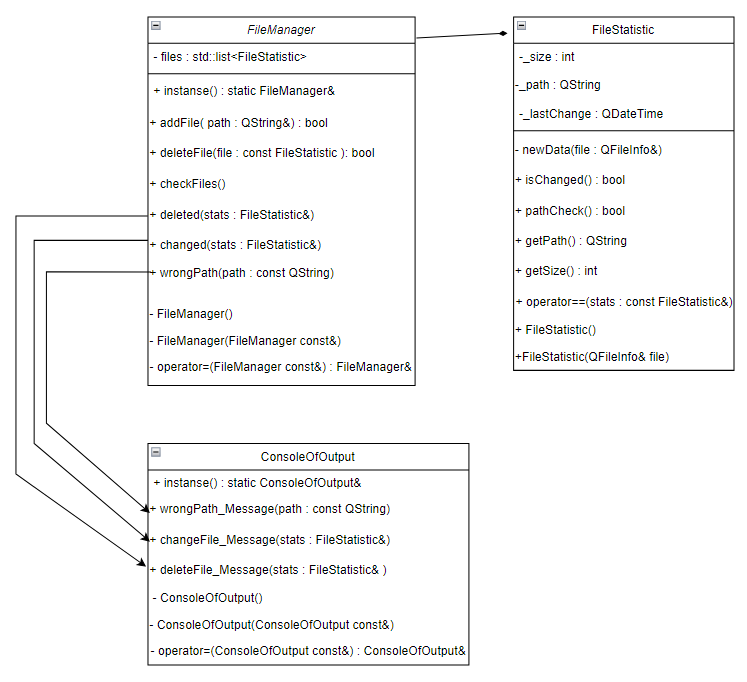
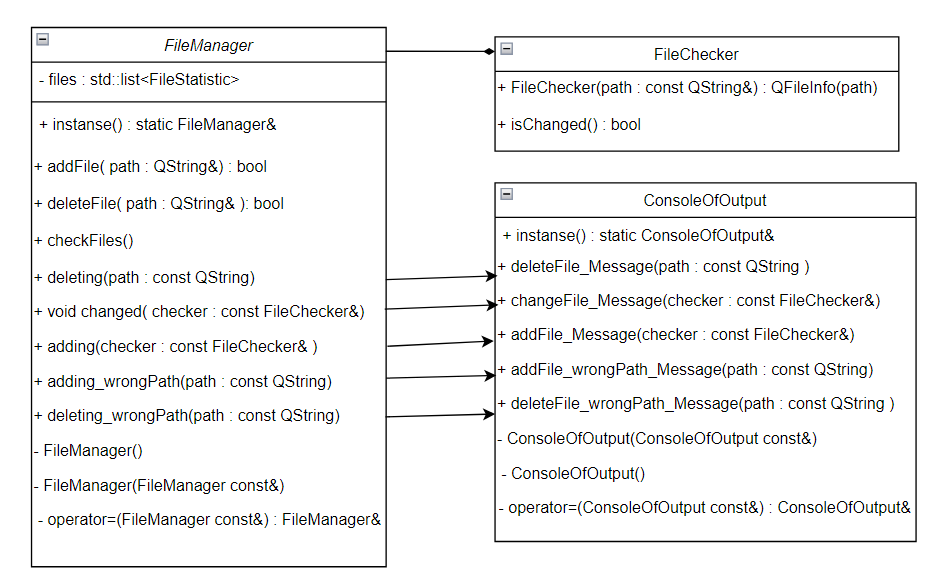
small changes and fix bug with deleting a file and updating uml diagram

Changed region(s): [[0.0308, 0.0, 1.0, 1.0]]

diff --git a/FileManager/main.cpp b/FileManager/main.cpp
@@ -6,11 +6,8 @@
 #include <QDir>
 #include <QFile>
 
-int main(int argc, char *argv[])
+void createDirectory(QString dirPath)
 {
-
-    //создание директории с файлами для тестов
-    QString dirPath = "C:/QtProjects/WidgetsQT/STD-FileManager/FilesShamonin";
     QDir dir;
     if(dir.mkpath(dirPath))
         qDebug() << "dir is create";
@@ -23,9 +20,14 @@ int main(int argc, char *argv[])
         file.open(QIODevice::WriteOnly);
         file.close();
     }
+}
 
-/////////////////////////////////////////////////////////////////////////////////////////////////////
-    //основная программа
+int main(int argc, char *argv[])
+{
+    //создание директории с файлами для тестов
+    QString dirPath = "C:/QtProjects/WidgetsQT/STD-FileManager/FilesShamonin";
+    createDirectory(dirPath);
+
     QCoreApplication a(argc, argv);
 
     FileManager &manager = FileManager::instanse();
@@ -44,7 +46,7 @@ int main(int argc, char *argv[])
     //пытаемся удалить существущий файл из пустого менеджера
     manager.deleteFile(dirPath + "/forDelete.txt");
 
-    std::list<QString> fileNames2 ={"/Ffasdasdj.txt",//неверное имя файла
+    std::list<QString> fileNames ={"/Ffasdasdj.txt",//неверное имя файла
                                      "/FfLW1.txt",
                                      "/FfLW2.txt",
                                      "/FfLW3.txt",
@@ -53,7 +55,7 @@ int main(int argc, char *argv[])
                                      "/forDelete.txt"};
 
     //добавление файлов с коректными и не коректоными путями
-    for(auto iter = fileNames2.begin(); iter != fileNames2.end(); iter++)
+    for(auto iter = fileNames.begin(); iter != fileNames.end(); iter++)
         manager.addFile(dirPath + *iter);
 
     // пытаемся удалить не существущий файл из не пустого менеджера

diff --git a/FileManager/outputconsole.cpp b/FileManager/outputconsole.cpp
@@ -11,9 +11,9 @@ ConsoleOfOutput::~ConsoleOfOutput()
 
 }
 
-void ConsoleOfOutput::deleteFile_Message(const FileChecker& checker)
+void ConsoleOfOutput::deleteFile_Message(const QString path)
 {
-    qDebug() << "DeleteFie: File" << checker.absoluteFilePath() << "is delete.\n";
+    qDebug() << "DeleteFile: File" << path << "is delete.\n";
 }
 
 void ConsoleOfOutput::changeFile_Message(const FileChecker& checker)
@@ -31,12 +31,12 @@ void ConsoleOfOutput::addFile_Message(const FileChecker& checker)
 
 void ConsoleOfOutput::addFile_wrongPath_Message(const QString path)
 {
-    qDebug() << "Addfile: The file" << path << "not added because the path was specified incorrectly\n";
+    qDebug() << "AddFile: The file" << path << "not added because the path was specified incorrectly\n";
 }
 
 void ConsoleOfOutput::deleteFile_wrongPath_Message(const QString path)
 {
-    qDebug() << "Deletefile: The file" << path << "not deleted because the path was specified incorrectly or manager is empty\n";
+    qDebug() << "DeleteFile: The file" << path << "not deleted because the path was specified incorrectly or manager is empty\n";
 }
 
 

diff --git a/FileManager/filemanager.cpp b/FileManager/filemanager.cpp
@@ -33,7 +33,7 @@ bool FileManager::deleteFile(const QString& path)
         for(auto iter = files.begin(); iter != files.end(); iter++)
             if(iter->absoluteFilePath() == path)
             {
-                emit deleting(*iter);
+                emit deleting(path);
                 files.remove(*iter);
                 return true;
             }
@@ -53,8 +53,13 @@ void FileManager::checkFiles()
             break;
         }
         else
-            if(iter->isChanged())
+            if(iter->isChanged() && iter->isFile())
+        {
+            {
+                qDebug() << iter->isFile();
                 emit changed(*iter);
+            }
+        }
     }
 }
 

diff --git a/FileManager/filestatistic.cpp b/FileManager/filestatistic.cpp
@@ -3,10 +3,13 @@
 
 bool FileChecker::isChanged()
 {
-    QDateTime temp = metadataChangeTime();
-    refresh();
-    if(isFile() && temp != metadataChangeTime())
-        return true;
+    if(isFile())
+    {
+        QDateTime temp = metadataChangeTime();
+        refresh();
+        if(temp != metadataChangeTime())
+            return true;
+    }
     return false;
 }
 

diff --git a/FileManager/outputconsole.h b/FileManager/outputconsole.h
@@ -18,7 +18,7 @@ public:
     }
 
 public slots:
-    void deleteFile_Message(const FileChecker& checker);
+    void deleteFile_Message(const QString path);
     void changeFile_Message(const FileChecker& checker);
     void addFile_Message(const FileChecker& checker);
     void addFile_wrongPath_Message(const QString path);

diff --git a/FileManager/filemanager.h b/FileManager/filemanager.h
@@ -25,7 +25,7 @@ public:
 
 signals:
     void changed(const FileChecker& checker);
-    void deleting(const FileChecker& checker);
+    void deleting(const QString path);
     void adding(const FileChecker& checker);
     void adding_wrongPath(const QString path);
     void deleting_wrongPath(const QString path);
